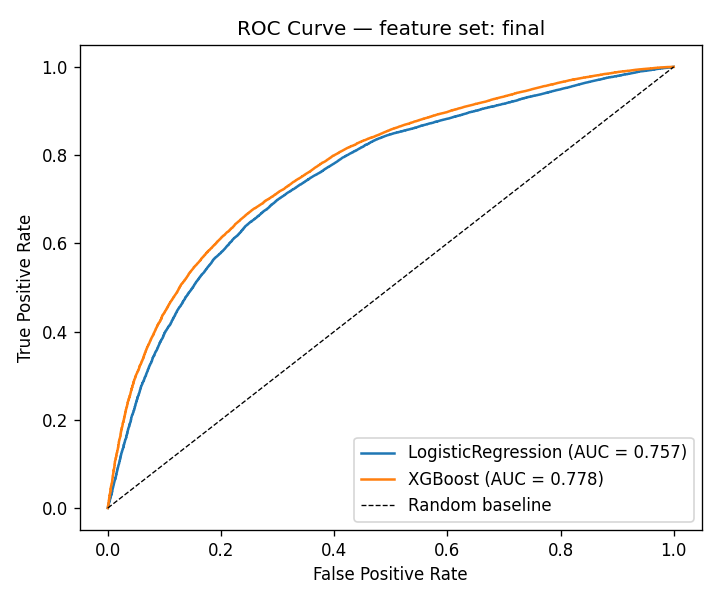
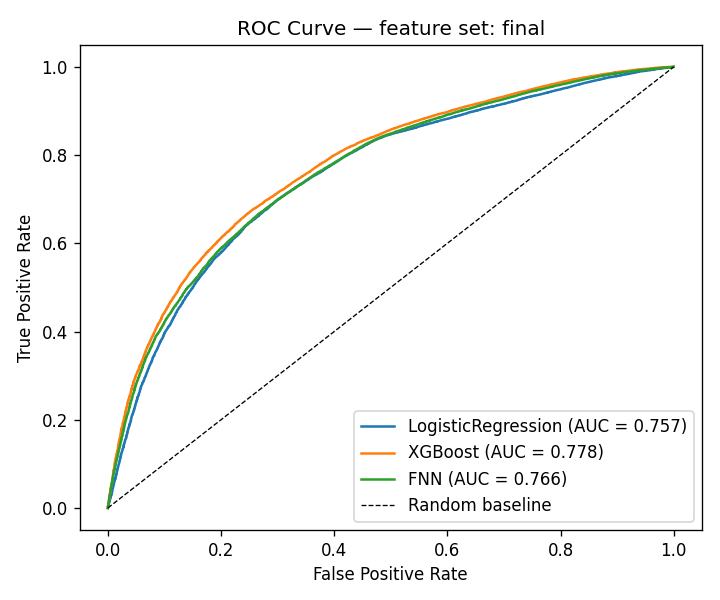
feat: init first scratch of fnn

diff --git a/src/fnn.py b/src/fnn.py
@@ -1,21 +1,4 @@
-"""
-src/fnn.py
-----------
-Feedforward Neural Network (FNN) for binary play-call classification.
-
-Architecture
-    Input(n_features) → Linear(64) → ReLU → Dropout(0.3)
-                      → Linear(32) → ReLU → Dropout(0.3)
-                      → Linear(1)  → Sigmoid
-
-Classes
-    PlayCallDataset     : PyTorch Dataset wrapping X / y arrays
-    FNN                 : PyTorch Module defining the network architecture
-
-Functions
-    train_fnn           : Full training loop with early stopping
-                          Returns the best model (lowest validation loss)
-"""
+#src/fnn.py
 
 import numpy as np
 import pandas as pd
@@ -29,15 +12,10 @@ from torch.utils.data import Dataset, DataLoader, random_split
 # ---------------------------------------------------------------------------
 
 class PlayCallDataset(Dataset):
-    """
-    Wraps a feature DataFrame and target Series as a PyTorch Dataset.
-
-    Parameters
-        X : pd.DataFrame — preprocessed feature matrix
-        y : pd.Series    — binary target (1 = pass, 0 = run)
-    """
+    """Wraps a feature df and target series as a PyTorch dataset"""
 
     def __init__(self, X: pd.DataFrame, y: pd.Series):
+        # casting float32 to avoid runtime errors
         self.X = torch.tensor(X.values, dtype=torch.float32)
         self.y = torch.tensor(y.values, dtype=torch.float32)
 
@@ -57,29 +35,31 @@ class FNN(nn.Module):
     Two-hidden-layer Feedforward Neural Network for binary classification.
 
     Architecture
-        Linear(n_features → 64) → ReLU → Dropout(p)
-        Linear(64 → 32)         → ReLU → Dropout(p)
-        Linear(32 → 1)          → Sigmoid
+        Linear(n_features → 64)      → ReLU         → Dropout(p)
+        Linear(64 → 32)              → ReLU         → Dropout(p)
+        Linear(32 → 1)               → Sigmoid
 
     Parameters
-        n_features  : number of input features (inferred from X_train)
-        dropout     : dropout probability applied after each hidden layer (default 0.3)
+        n_features  : number of input features inferred from X_train
+        dropout     : dropout probability applied after each hidden layer default 0.3
     """
 
     def __init__(self, n_features: int, dropout: float = 0.3):
         super().__init__()
+        # definiing layers seq.
         self.network = nn.Sequential(
             nn.Linear(n_features, 64),
             nn.ReLU(),
-            nn.Dropout(dropout),
+            nn.Dropout(dropout), # helps prevent network from memorizing sprase features patterns
             nn.Linear(64, 32),
             nn.ReLU(),
             nn.Dropout(dropout),
             nn.Linear(32, 1),
-            nn.Sigmoid(),
+            nn.Sigmoid(), #paired with BCEloss in training loop
         )
 
     def forward(self, x: torch.Tensor) -> torch.Tensor:
+        # removes extra dimensions to match target shape
         return self.network(x).squeeze(1)
 
 
@@ -99,52 +79,50 @@ def train_fnn(
     random_state: int = 42,
 ) -> tuple[FNN, dict]:
     """
-    Train the FNN with early stopping on a held-out validation split.
+    Train the FNN with early stopping on validation split
 
     The best model weights (lowest validation loss) are restored after
-    training stops, regardless of whether early stopping was triggered.
+    training stops, regardless of whether early stopping was triggered
 
     Parameters
-        X_train      : training feature DataFrame (output of get_X_y)
+        X_train      : training feature df (output of get_X_y)
         y_train      : training target Series
         val_split    : fraction of training data used for validation (default 0.1)
-        epochs       : maximum number of training epochs (default 100)
-        batch_size   : mini-batch size (default 512 — safe for 8 GB RAM on CPU)
+        epochs       : maximum training epochs (default 100)
+        batch_size   : mini batch size (default 512 — safe for my personal 8 GB RAM on CPU)
         lr           : Adam learning rate (default 1e-3)
         patience     : early stopping patience in epochs (default 10)
         dropout      : dropout probability (default 0.3)
         random_state : seed for reproducibility
-
-    Returns
-        model        : FNN instance with best weights loaded
-        history      : dict with lists "train_loss" and "val_loss" per epoch
     """
-
+    # seeding for reporducible
     torch.manual_seed(random_state)
     np.random.seed(random_state)
 
-    # --- Dataset & splits ---------------------------------------------------
+    # data setsplits 
     full_dataset = PlayCallDataset(X_train, y_train)
 
     val_size   = int(len(full_dataset) * val_split)
     train_size = len(full_dataset) - val_size
 
+    # using generator with seed guarentess validation split
     train_dataset, val_dataset = random_split(
         full_dataset,
         [train_size, val_size],
         generator=torch.Generator().manual_seed(random_state),
     )
 
+    # shuffle prevents from learning order based patterns
     train_loader = DataLoader(train_dataset, batch_size=batch_size, shuffle=True)
     val_loader   = DataLoader(val_dataset,   batch_size=batch_size, shuffle=False)
 
-    # --- Model, loss, optimiser ---------------------------------------------
+    # model, loss, optimiser 
     n_features = X_train.shape[1]
     model      = FNN(n_features=n_features, dropout=dropout)
     criterion  = nn.BCELoss()
     optimizer  = torch.optim.Adam(model.parameters(), lr=lr)
 
-    # --- Training loop ------------------------------------------------------
+    # Training loop 
     history         = {"train_loss": [], "val_loss": []}
     best_val_loss   = float("inf")
     best_weights    = None
@@ -152,20 +130,21 @@ def train_fnn(
 
     for epoch in range(1, epochs + 1):
 
-        # Train
+        # Train mode enables dropout active behavior
         model.train()
         train_losses = []
         for X_batch, y_batch in train_loader:
-            optimizer.zero_grad()
+            optimizer.zero_grad() # clear gradient before calc. new one
             preds = model(X_batch)
             loss  = criterion(preds, y_batch)
-            loss.backward()
-            optimizer.step()
+            loss.backward() # calc gradients
+            optimizer.step() #update weights
             train_losses.append(loss.item())
 
-        # Validate
+        # eval mode disables dropout layes for consistenty 
         model.eval()
         val_losses = []
+        # disables gradient tracking to save memory and speed up
         with torch.no_grad():
             for X_batch, y_batch in val_loader:
                 preds = model(X_batch)
@@ -178,10 +157,10 @@ def train_fnn(
         history["train_loss"].append(train_loss)
         history["val_loss"].append(val_loss)
 
-        # Early stopping check
+        # early stopping check
         if val_loss < best_val_loss:
             best_val_loss  = val_loss
-            best_weights   = {k: v.clone() for k, v in model.state_dict().items()}
+            best_weights   = {k: v.clone() for k, v in model.state_dict().items()} # to copy weights instead of shraing reference
             epochs_no_improve = 0
         else:
             epochs_no_improve += 1
@@ -198,7 +177,7 @@ def train_fnn(
             print(f"\n[train_fnn] Early stopping at epoch {epoch}.")
             break
 
-    # Restore best weights
+    # restore best weights to ensure the retunred model has opitmal parameters
     model.load_state_dict(best_weights)
     print(f"[train_fnn] Training complete. Best val_loss: {best_val_loss:.4f}")
 
@@ -211,9 +190,7 @@ def train_fnn(
 
 class FNNWrapper:
     """
-    Thin sklearn-style wrapper around a trained FNN so it can be passed
-    directly to evaluate_model(), plot_confusion_matrix(), and plot_roc_curve()
-    without any changes to evaluation.py.
+    short sklearn-style wrapper around a trained FNN
 
     Usage
         wrapper = FNNWrapper(model)
@@ -225,13 +202,15 @@ class FNNWrapper:
         self.threshold = threshold
 
     def predict_proba(self, X: pd.DataFrame) -> np.ndarray:
-        self.model.eval()
+        self.model.eval() #ensure dropout is off during evalutation
         X_tensor = torch.tensor(X.values, dtype=torch.float32)
         with torch.no_grad():
             proba_pass = self.model(X_tensor).numpy()
         proba_run = 1 - proba_pass
+        # column stack conversts 1D arrays into 2d to match scikitlearn standard settings
         return np.column_stack([proba_run, proba_pass])
 
     def predict(self, X: pd.DataFrame) -> np.ndarray:
         proba = self.predict_proba(X)[:, 1]
+        # applies treshhold to convert raw probabilities to 1 or 0
         return (proba >= self.threshold).astype(int)